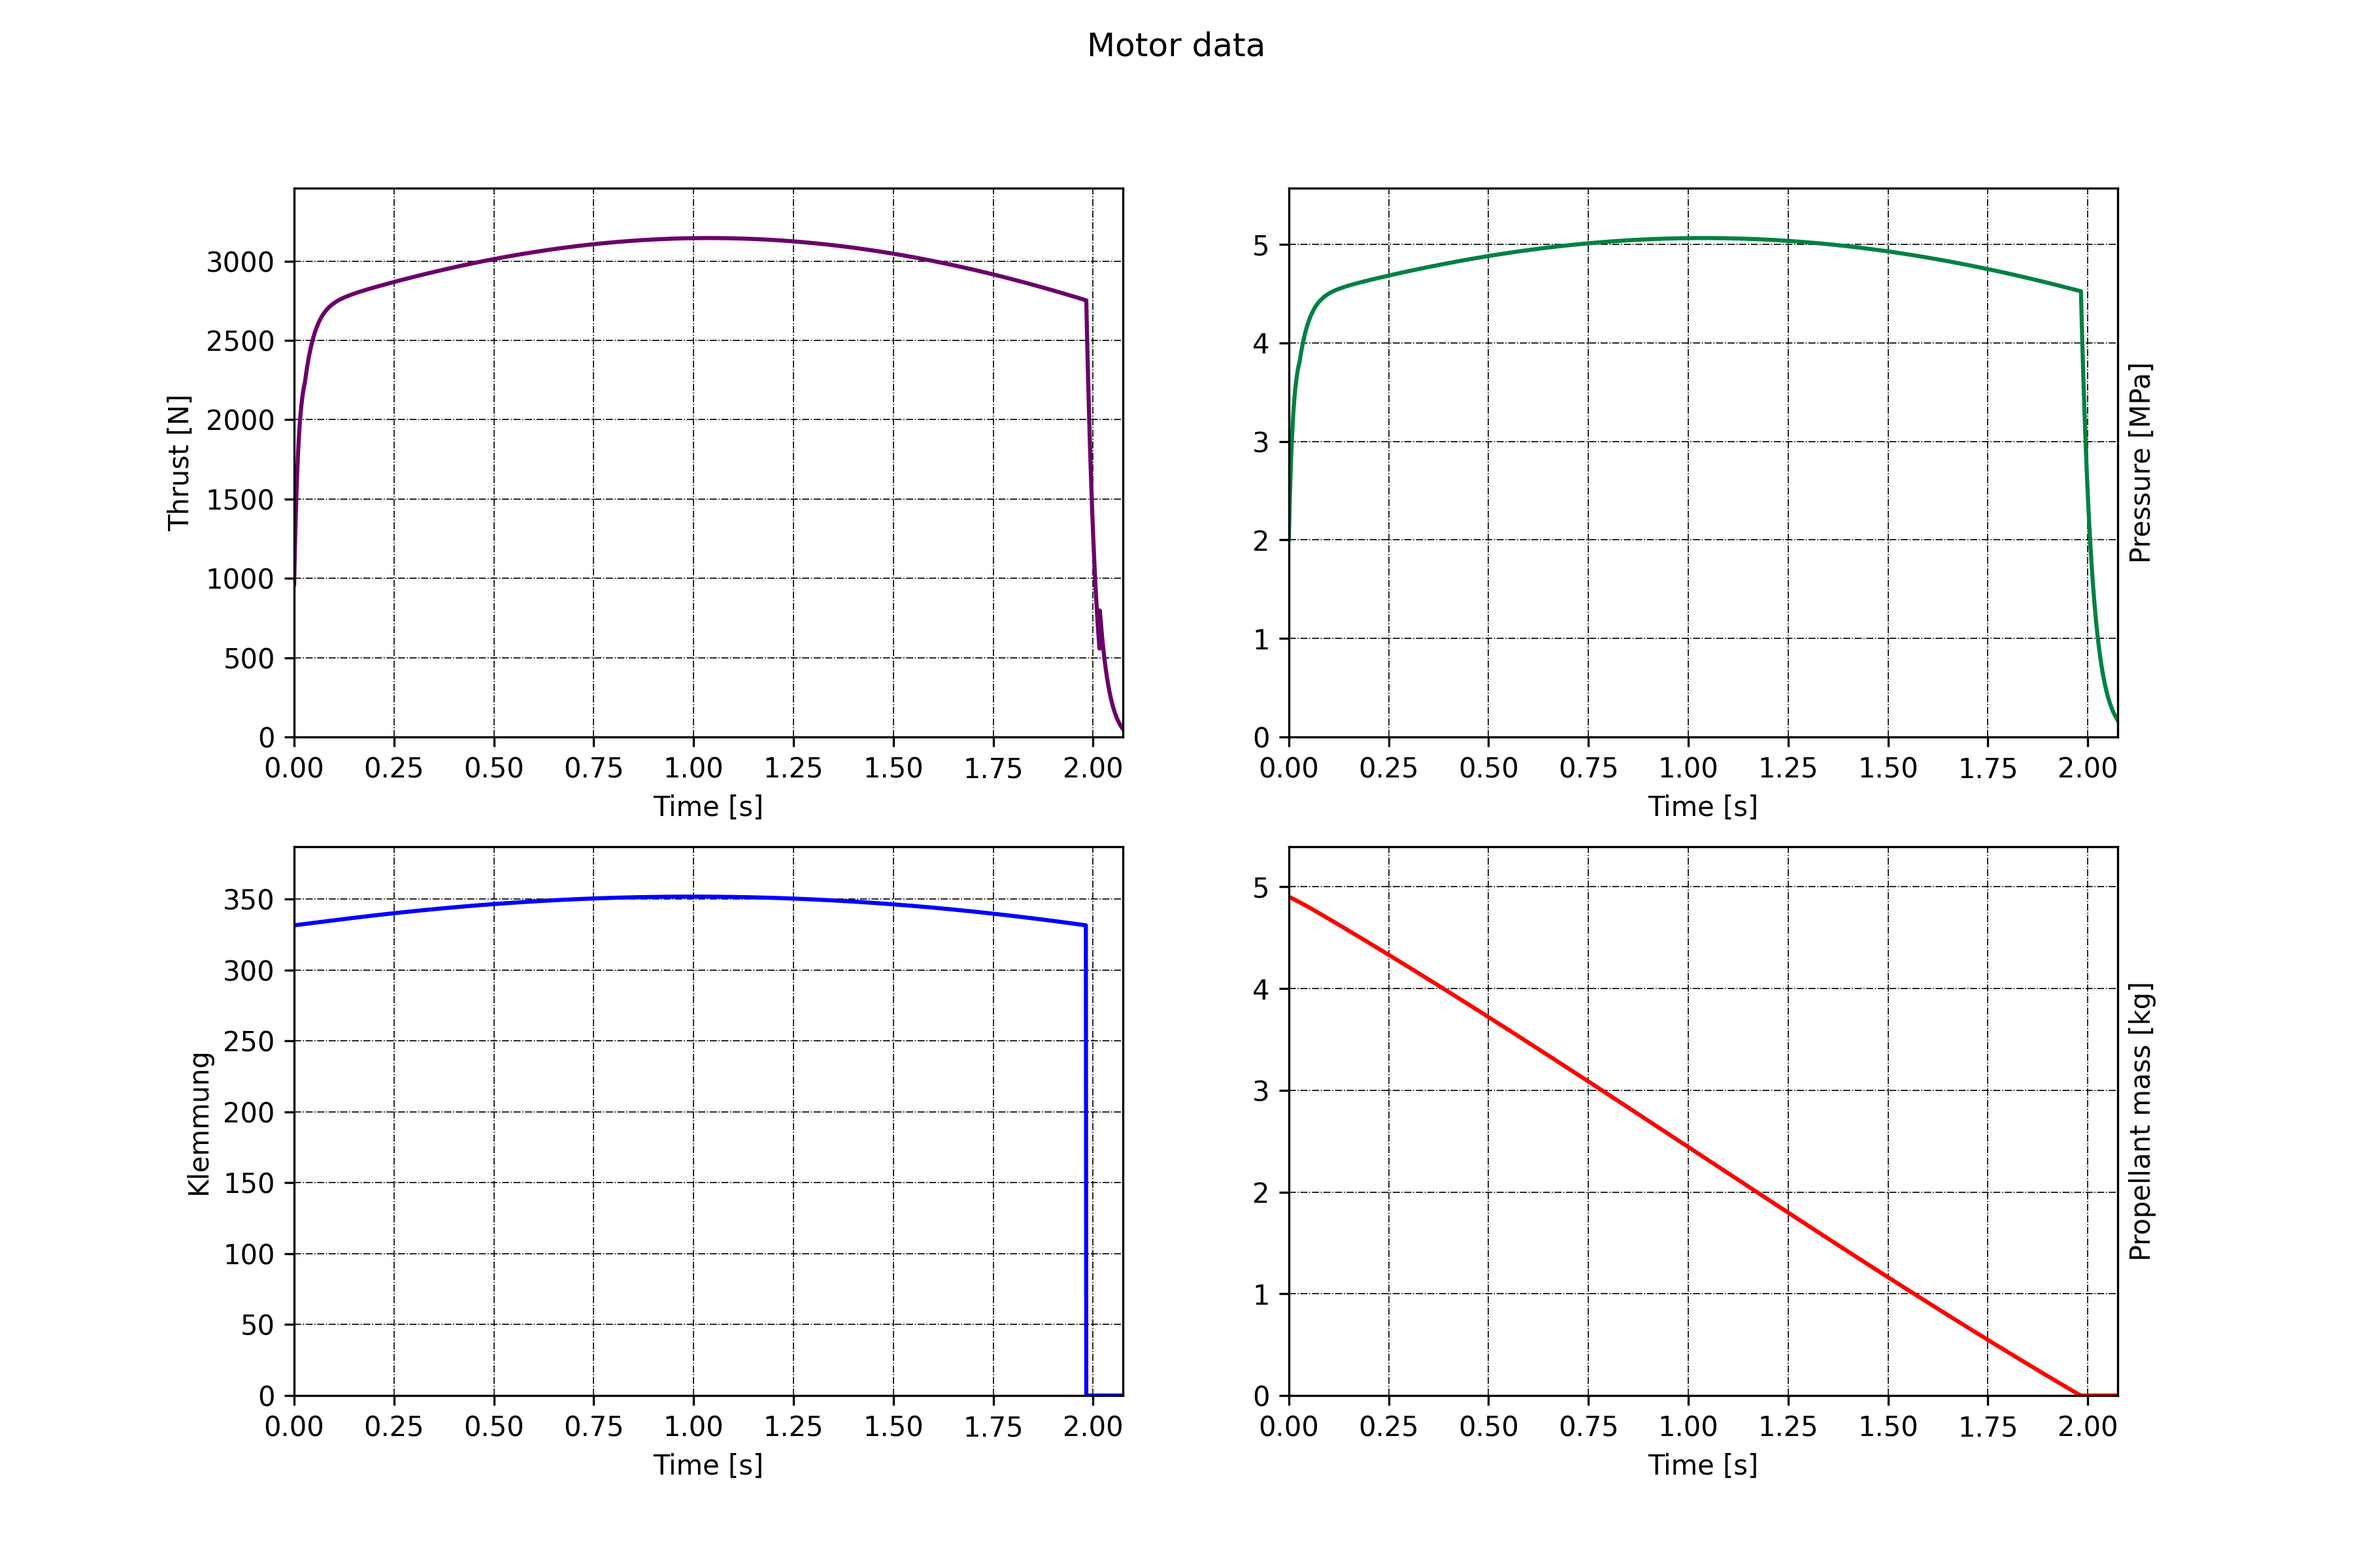
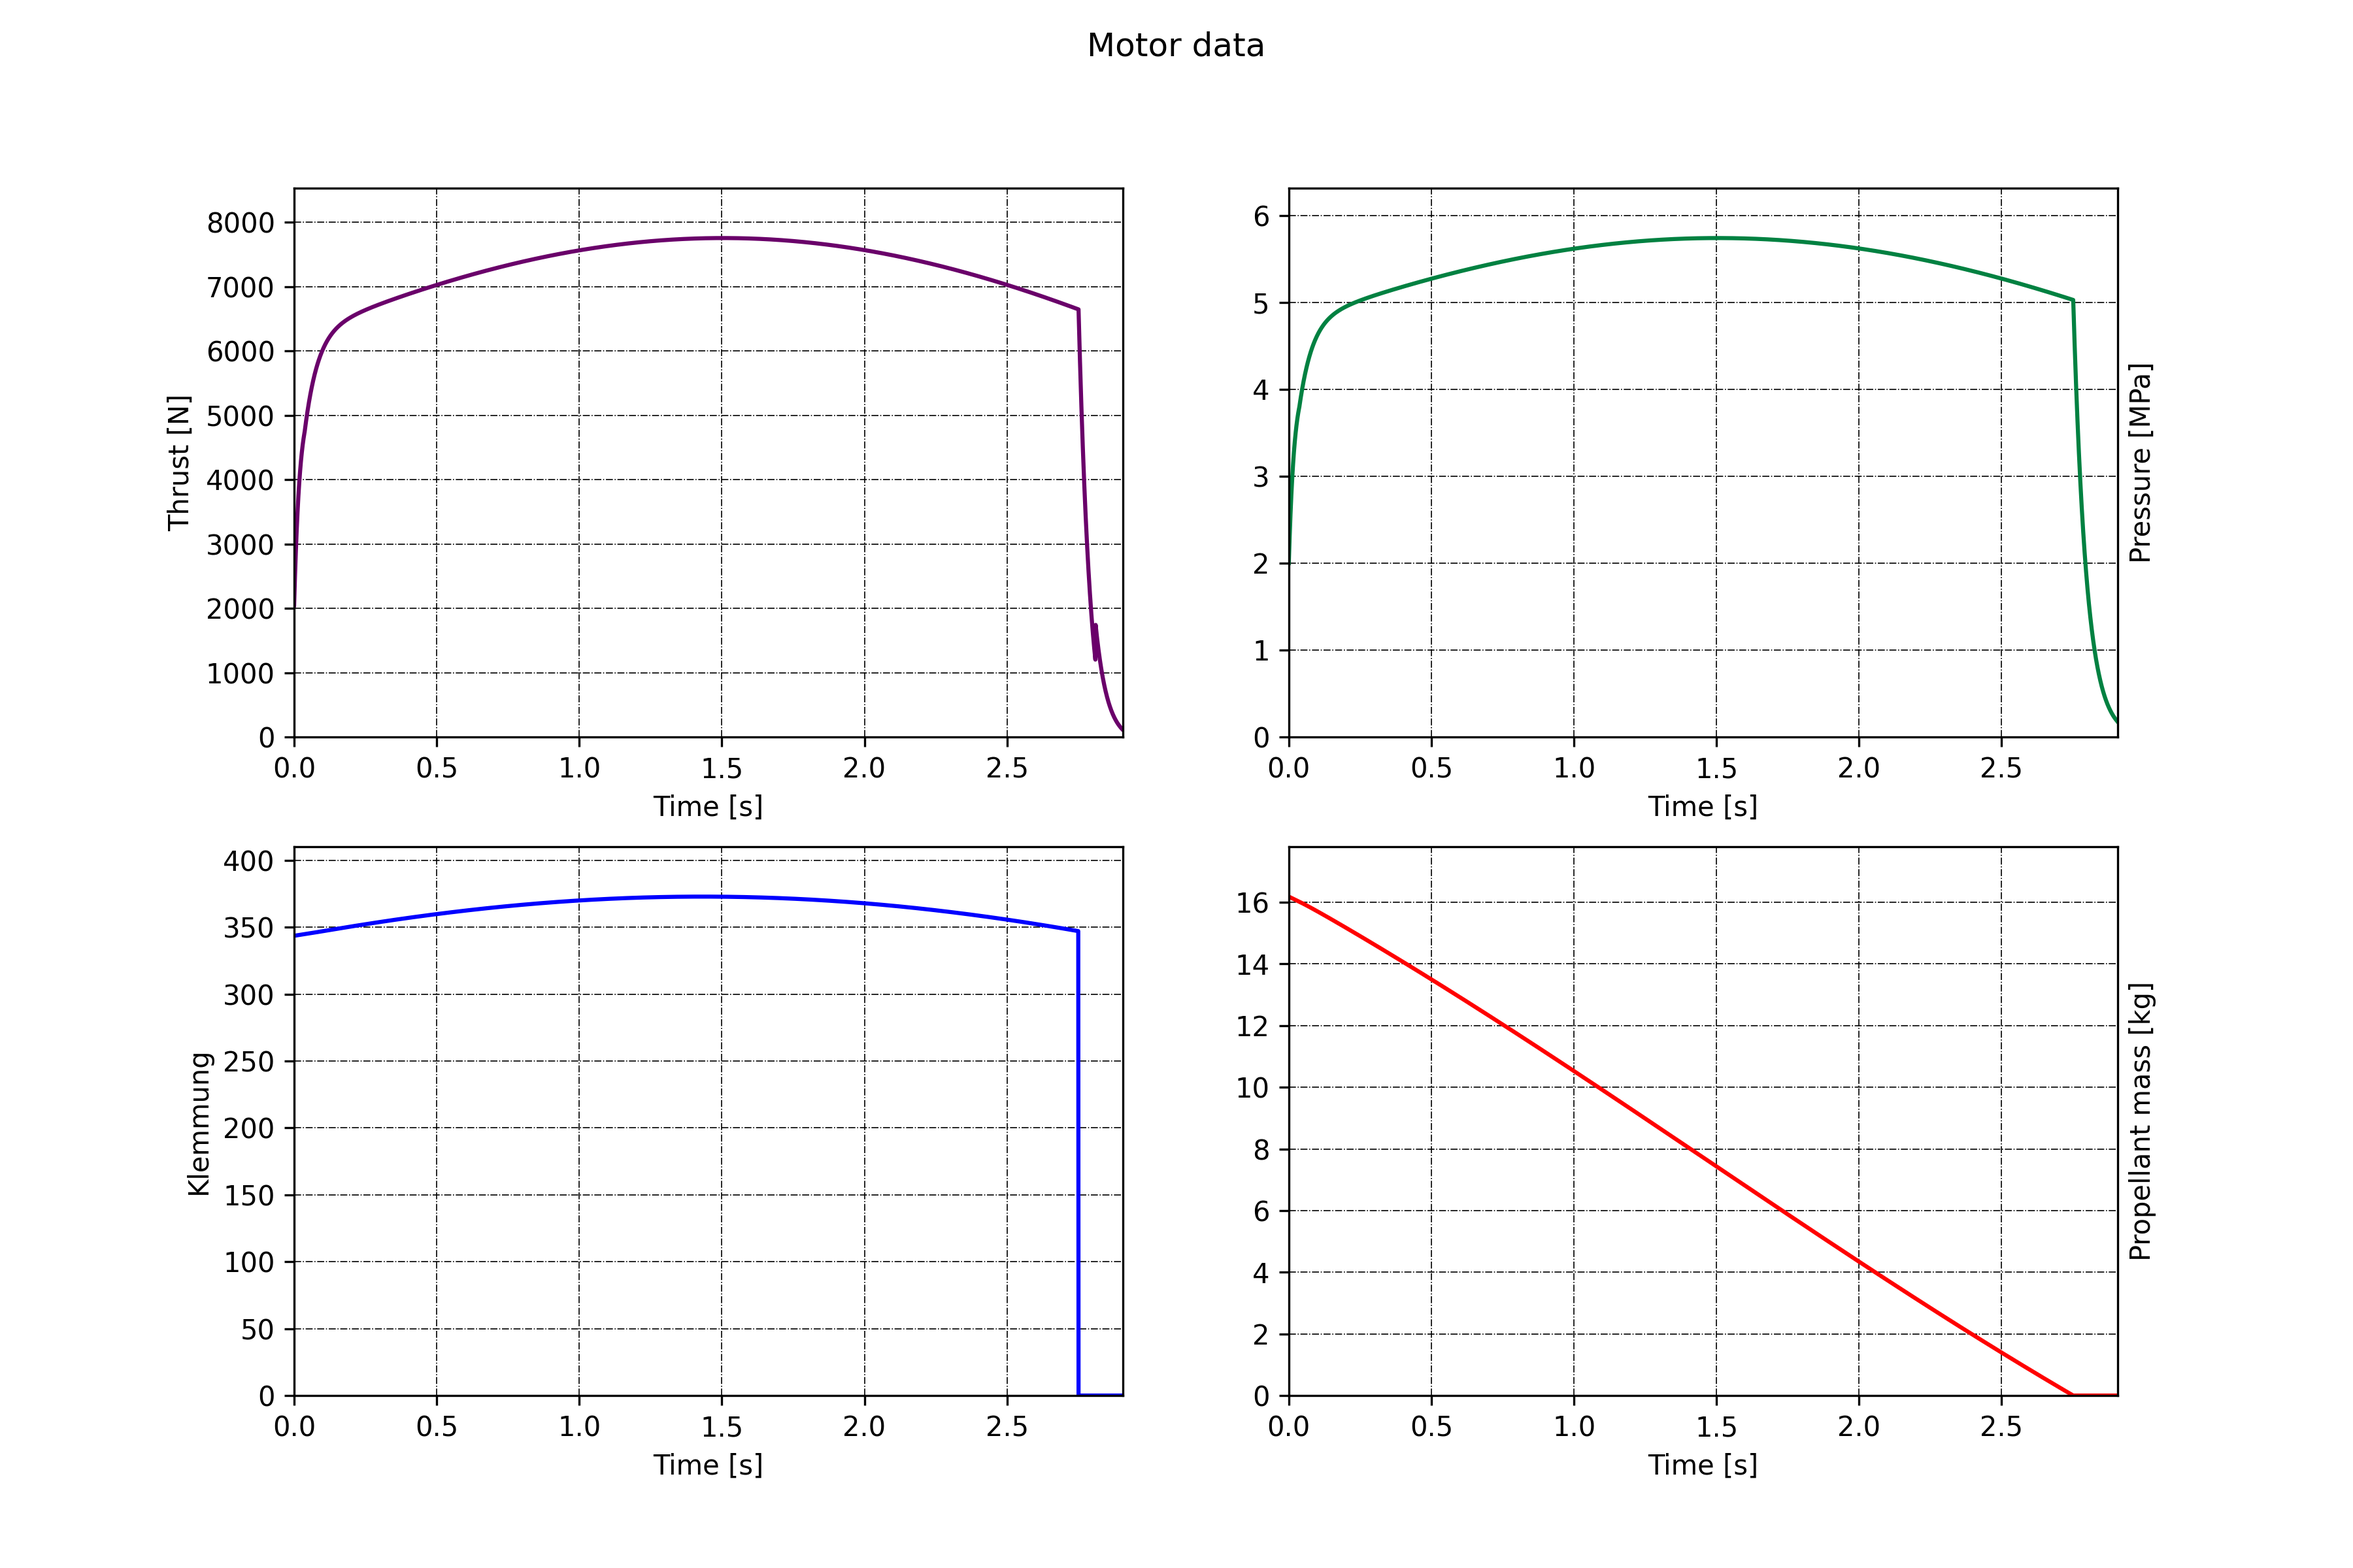
Version Alpha

diff --git a/SRM Solver.py b/SRM Solver.py
@@ -84,13 +84,13 @@ sf = 4
 
 # BATES PROPELLANT INPUT
 # Grain count
-N = 6
+N = 8
 # Grain external diameter [m]
-D_grain = 78e-3
+D_grain = 103e-3
 # Grains 1 to 'N' core diameter [m]
-D_core = np.array([42, 42, 42, 42, 42, 42]) * 1e-3
+D_core = np.array([50, 50, 50, 50, 50, 50, 50, 50]) * 1e-3
 # Grains 1 to 'N' length [m]
-L_grain = np.array([138, 138, 138, 138, 138, 138]) * 1e-3
+L_grain = np.array([182, 182, 182, 182, 182, 182, 182, 182]) * 1e-3
 
 # PROPELLANT CHARACTERISTICS INPUT
 # Propellant name
@@ -106,7 +106,7 @@ P_igniter = 2e6
 
 # NOZZLE DIMENSIONS
 # Throat diameter [m]
-D_throat = 24e-3
+D_throat = 35e-3
 # Nozzle material yield strength [Pa]
 Y_nozzle = 215e6
 # Nozzle divergent and convergent angle [degrees]
@@ -117,11 +117,11 @@ C2 = 0.00000
 
 # COMBUSTION CHAMBER
 # Chamber inside diameter [m]
-D_in = 82.55e-3
+D_in = 114.3e-3
 # Chamber outside diameter [m]
-D_out = 88.9e-3
+D_out = 127e-3
 # Grain spacing [m]
-grain_spacing = 5e-3
+grain_spacing = 15e-3
 # Chamber yield strength [Pa]
 Y_cc = 240e6
 # Bulkhead yield strength [Pa]
@@ -366,7 +366,8 @@ print(f' Grain length for neutral profile vector: {optimal_grain_length}')
 print(' Burn profile: ' + burn_profile)
 print(f' Initial port-to-throat (grain #{N:.0f}): {initial_port_to_throat:.2f}')
 print(' Motor L/D ratio: %.2f' % (np.sum(L_grain) / D_grain))
-print(' Max initial mass flux: %.4f kg/s-m-m' % (np.max(grain_mass_flux)))
+print(f' Max initial mass flux: {np.max(grain_mass_flux):.4f} kg/s-m-m or '
+      f'{np.max(grain_mass_flux) * 1.42233e-3:.4f} lb/s-in-in')
 
 print('\nCHAMBER PRESSURE')
 print(f' Maximum, average chamber pressure: {(np.max(P0) * 1e-6):.4f}, {(np.mean(P0) * 1e-6):.4} MPa')

diff --git a/functions/ib_functions.py b/functions/ib_functions.py
@@ -302,9 +302,9 @@ def plot_mass_flux(t, grain_mass_flux):
     """ Plots and saves figure of the mass flux for all the grain segments """
     N, index = grain_mass_flux.shape
     for i in range(N):
-        plt.plot(t, grain_mass_flux[i, :])
+        plt.plot(t, grain_mass_flux[i, :] * 1.42233e-3)
     plt.title('Mass flux data')
-    plt.ylabel('Mass flux [kg/s-m-m]')
+    plt.ylabel('Mass flux [lb/s-in-in]')
     plt.xlabel('Time [s]')
     plt.grid(color='k', linestyle='-.', linewidth='.4')
     plt.savefig('output/grain_mass_flux.png', dpi=300)
